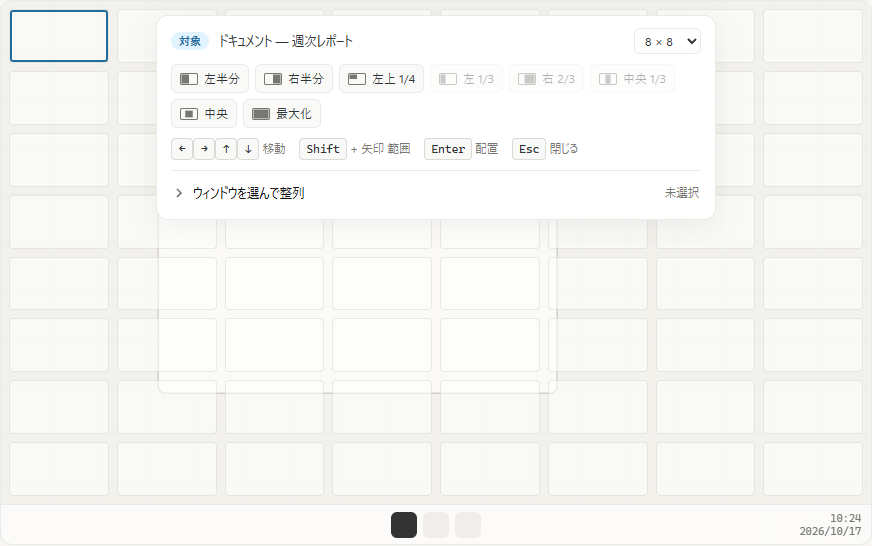
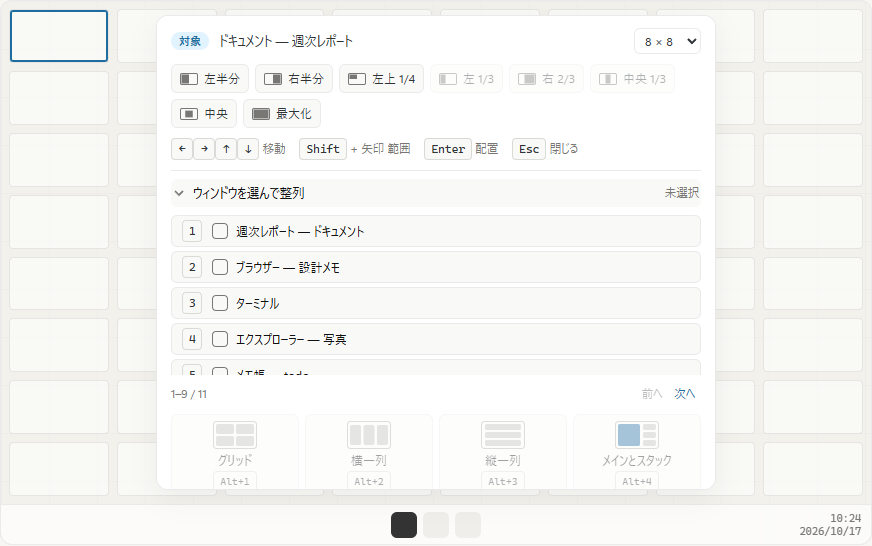
README: 古くなった記述と画面写真を直し、ソーシャルプレビューの画像を足す
英語の README に、更新して再起動、管理者として起動の注意、初回の導入アニメーション、動きを減らす設定の説明が無かったので足し、日本語の原文と合わせる。
画面写真 (操作感、ホットキー、ランチャー) を、現在のモックアップから撮り直す。
GitHub のソーシャルプレビュー用に 1280 × 640 の画像を作る (tools/film/shots.mjs)。

diff --git a/tools/film/social.html b/tools/film/social.html
@@ -1,0 +1,20 @@
+<!doctype html>
+<html lang="en"><head><meta charset="utf-8"><title>Snapwell social preview</title>
+<style>
+@font-face { font-family: 'Newsreader'; src: url('../../site/fonts/newsreader-500.woff2') format('woff2'); font-weight: 500; }
+html, body { margin: 0; width: 1280px; height: 640px; overflow: hidden; background: #F7F6F3; color: #111; }
+body { position: relative; font-family: 'Segoe UI Variable Text', 'Segoe UI', sans-serif;
+  background-image: radial-gradient(circle, rgba(47,52,55,.2) 1.4px, transparent 1.6px); background-size: 22px 22px; background-position: 11px 11px; }
+.c { position: absolute; left: 112px; top: 0; bottom: 0; display: flex; flex-direction: column; justify-content: center; gap: 28px; }
+.row { display: flex; align-items: center; gap: 32px; }
+.mark { width: 132px; height: 132px; display: block; }
+.name { font-family: 'Newsreader', Georgia, serif; font-weight: 500; font-size: 120px; line-height: 1; letter-spacing: -0.03em; }
+.tag { font-size: 44px; font-weight: 600; letter-spacing: -0.02em; margin: 0; }
+.sub { font-size: 26px; color: #5F5E5B; margin: 0; }
+</style></head><body>
+<div class="c"><div class="row"><span id="m"></span><span class="name">Snapwell</span></div>
+<p class="tag">Throw a window. It lands in place.</p>
+<p class="sub">A window manager for Windows 11. Native on x64 and ARM64.</p></div>
+<script src="../../site/js/brand-mark.js"></script>
+<script>document.getElementById('m').innerHTML = window.SNAP_MARK;</script>
+</body></html>

diff --git a/tools/film/README.md b/tools/film/README.md
@@ -61,3 +61,6 @@ node audio/mix.mjs                           # 既定は site/video の無音版
 - 生成の記録: 2026-10-26、有料プランの鍵 (ユーザーが確認)、モデル `eleven_text_to_sound_v2`、12 件・指定の長さの合計 10.4 秒 (約 416 クレジット)、`tick` は無音に近かったので指示を変えて 1 件だけ作り直し (約 20 クレジット)。
 - 作った音は公開前に聞いて確かめる (第 4 条(k) は出力を確認する責任が利用者にあるとする)。生成日、プラン、使ったモデル (`eleven_text_to_sound_v2`) を PR か `audio/` に書き残す。
 - プロジェクトのライセンスとの関係: 効果音の mp3 自体はリポジトリに入れず、動画に混ぜた音だけが `site/video/` に入る。
+
+## README の画面写真とソーシャルプレビュー
+`node shots.mjs` で、モックアップから `docs/images/` の設定画面 (操作感・ホットキー) とランチャーの写真を撮り直し、GitHub のソーシャルプレビュー (1280 × 640、`social.html`) を `site/assets/social-preview.png` に書き出す。ソーシャルプレビューは API で設定できないため、リポジトリの Settings → General → Social preview に手でアップロードする。サイトの共有画像 (`og.png`、1200 × 630) は `og.html` から作る。
